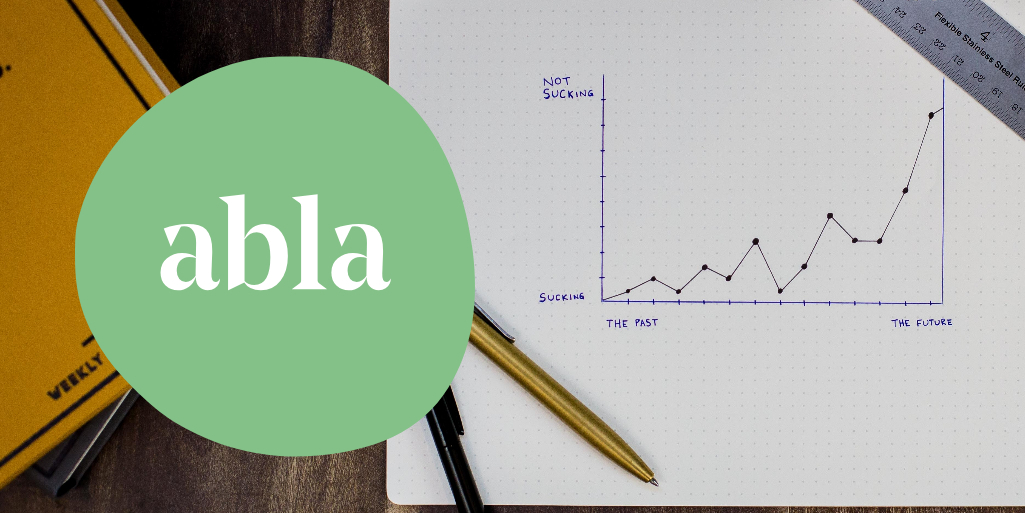
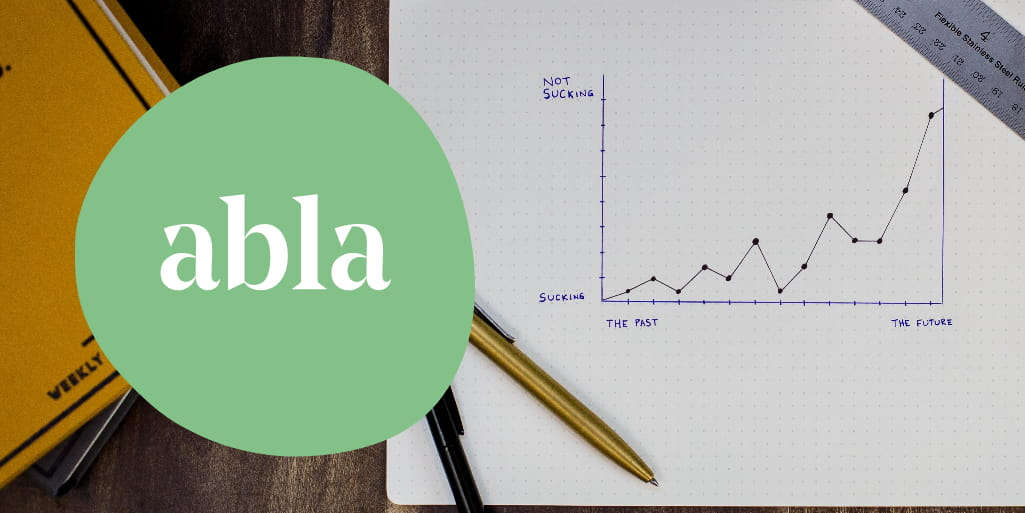
webp

diff --git a/alternative-google-analytics-pas-cher.html b/alternative-google-analytics-pas-cher.html
@@ -22,7 +22,7 @@ title: "Notre offre tarifaire | Mesure d'audience alternative à Google Analytic
                    <p>Chez Abla Analytics, il n'y a aucuns frais d'installation ou de configuration. Il n'existe aucune option, toutes les fonctionnalités sont proposées en illimité. Seul le nombre de pages vues générées par vos sites déterminera le prix de votre abonnement mensuel. </p>
                 </div>
              </div>
-             <div class="headingImage__image mt-1 headingImage__image--button"> <img alt="" title="" src="assets/images/trafic.png" sizes="(max-width: 567px) 94.35vw, (max-width: 999px) 40.54vw, (max-width: 1232px) 36.14vw, (max-width: 1920px) 70vw, 600px" data-loaded="true" style="visibility: visible;" class="img-loaded"> </div>
+             <div class="headingImage__image mt-1 headingImage__image--button"> <img alt="" title="" src="assets/images/trafic.webp" sizes="(max-width: 567px) 94.35vw, (max-width: 999px) 40.54vw, (max-width: 1232px) 36.14vw, (max-width: 1920px) 70vw, 600px" data-loaded="true" style="visibility: visible;" class="img-loaded"> </div>
           </div>
        </div>
     </div>
@@ -36,7 +36,7 @@ title: "Notre offre tarifaire | Mesure d'audience alternative à Google Analytic
                    <p>Avec Abla Analytics Standard, si vos sites génèrent moins de 5.000 pages vues par mois vous pouvez alors profiter de notre solution gratuitement et sans limite dans le temps.</p>
                 </div>
              </div>
-             <div class="headingImage__image mt-1 "> <img alt="" title="" src="assets/images/start.png" sizes="(max-width: 567px) 94.35vw, (max-width: 999px) 40.54vw, (max-width: 1232px) 36.14vw, (max-width: 1920px) 70vw, 600px" data-loaded="true" style="visibility: visible;" class="img-loaded"> </div>
+             <div class="headingImage__image mt-1 "> <img alt="" title="" src="assets/images/start.webp" sizes="(max-width: 567px) 94.35vw, (max-width: 999px) 40.54vw, (max-width: 1232px) 36.14vw, (max-width: 1920px) 70vw, 600px" data-loaded="true" style="visibility: visible;" class="img-loaded"> </div>
           </div>
        </div>
     </div>
